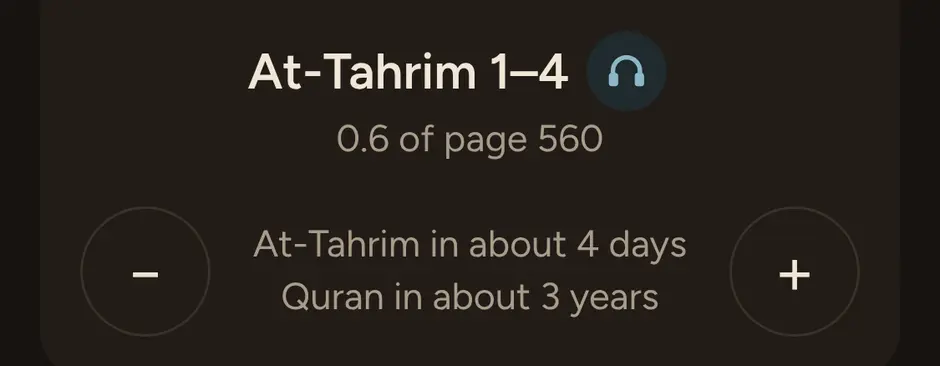
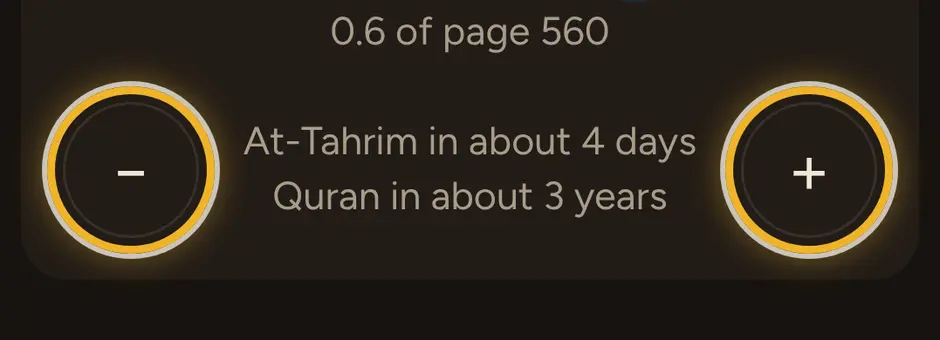
Tip pictures: zoomed in on each tool, with rings round what to tap
Each tip's picture is now a small area around the tool it explains,
taken at 3x and shown larger, with gold rings round the buttons and the
green triangles it is about. The rings are drawn over the page only for
the screenshot. Ayah by ayah is shot on a short screen so the zoomed ayahs
and their buttons fit; Surahs gets its own picture of a Surah being rated.

Claude-Session: https://claude.ai/code/session_013Uh1AuLAg9u894KNuKYPjN

diff --git a/src/tipPictures.ts b/src/tipPictures.ts
@@ -1,7 +1,6 @@
-// The picture with each tip: what it explains, in use, taken from the real app by `npm run screenshots` as a crop across
-// the screen. Screens that follow the theme have a dark one too; the Mushaf page stays light.
-import surahsDark from './assets/intro/surahs-dark.webp'
-import surahsLight from './assets/intro/surahs-light.webp'
+// The picture with each tip: what it explains, in use, taken from the real app by `npm run screenshots`, zoomed in on it
+// with gold rings round what to tap or look at. Screens that follow the theme have a dark one too; the Mushaf page
+// stays light.
 import ayahByAyah from './assets/tips/ayah-by-ayah.webp'
 import hide from './assets/tips/hide.webp'
 import hifzAmountDark from './assets/tips/hifz-amount-dark.webp'
@@ -15,6 +14,8 @@ import nextDayLight from './assets/tips/next-day-light.webp'
 import pen from './assets/tips/pen.webp'
 import rabtPage from './assets/tips/rabt-page.webp'
 import rate from './assets/tips/rate.webp'
+import surahsDark from './assets/tips/surahs-dark.webp'
+import surahsLight from './assets/tips/surahs-light.webp'
 import type { TipId } from './tips'
 
 export type TipPictureSource = { light: string; dark?: string }

diff --git a/PLAN.md b/PLAN.md
@@ -37,7 +37,7 @@ Changes from my note cards. I rate each Surah myself (★ weak, ★½ last page 
 27. ✅ **Replay the intro** (builder's request): Settings has an Intro section (above Memorised surahs) with a "Replay the intro" button, which shows the five intro cards in place of Settings. The last card's button is "Done" instead of "Set up", there is no Restore line, and Done or Skip returns to Settings with any unsaved changes still there.
 28. ✅ **Tips on first use** (builder's request): the first time a tool is used, a tip slides up from the bottom saying what it does, with "Got it" (a tap outside closes it too). Tips: opening a page from Hifz, Rabt or Muraja'a (the pins and the buttons to tap), ayah by ayah, hide mode, the pen, the rating star, the Hifz amount − and +, a finished day (after the celebration, with Undo), the Surahs screen and History. Each shows once on this phone, one at a time; which have shown is kept on the phone like the theme, not in the Backup. In Settings, the Intro section becomes Help, with "Show all tips" beside "Replay the intro".
 29. ✅ **Swipe through cards, listen and read marks** (builder's request): "Show all tips" is a carousel, one tip per card, like the intro, with "Pop up again as I go" under the buttons. The intro and the tips can be swiped (left for the next card, right for the one before) as well as Next and Back; a sideways swipe is never taken as the browser's back gesture (also on the Mushaf page). On Today, the YouTube link is headphones instead of a play triangle, so it reads as listening rather than opening the Surah, and a small book in a soft circle sits to the right of each Arabic Surah name, so it reads as tappable to open the page.
-30. ✅ **Tips with pictures, and a narrower "+ ayah"** (builder's request): every tip, as a popup and in the carousel, has a picture of what it explains in use, taken from the real app by `npm run screenshots` (renamed from intro-shots; it now takes the tips' pictures too). Screens that follow the theme have a dark picture as well. The tips call the portion markers green triangles. In ayah by ayah the count sits on the left inside "+ ayah" ("3 / 15 │ + ayah"), and the button is narrower. While the pen is on, a drag never selects the page's text.
+30. ✅ **Tips with pictures, and a narrower "+ ayah"** (builder's request): every tip, as a popup and in the carousel, has a picture of what it explains in use, zoomed in on it with gold rings round what to tap or look at, taken from the real app by `npm run screenshots` (renamed from intro-shots; it now takes the tips' pictures too). Screens that follow the theme have a dark picture as well. The tips call the portion markers green triangles. In ayah by ayah the count sits on the left inside "+ ayah" ("3 / 15 │ + ayah"), and the button is narrower. While the pen is on, a drag never selects the page's text.
 
 ## What we're NOT doing
 
